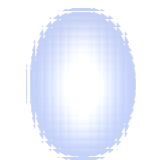
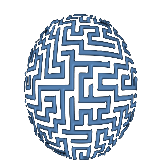
level5

diff --git a/game.py b/game.py
@@ -64,6 +64,8 @@ R_c = np.array([-1, 0, 0])
 Vg = np.array([1, -sqrt(2) / 2]) / sqrt(3 / 2)
 Vd = np.array([1, sqrt(2) / 2]) / sqrt(3 / 2)
 
+
+
 setting = {}
 setting['smooth'] = False
 destr = [0, 4, 6,11]
@@ -308,10 +310,10 @@ class Wall():
 
             if self.angle0>0:
 
-                self.a_middle[:,:,0]=self.a_old[:,:,0]+np.sin(self.angle0)*np.sin(angle1)*(5)
-                self.a_middle[:, :, 1] = self.a_old[:, :, 1] + np.sin(self.angle0) * np.cos(angle1) * (5)
-                self.X_middle[:,:,0]=self.X[:,:,0]-np.sin(self.angle0)*np.sin(angle1)*(5)
-                self.X_middle[:, :, 1] = self.X[:, :, 1] - np.sin(self.angle0) * np.cos(angle1) * (5)
+                self.a_middle[:,:,0]=self.a_old[:,:,0]+np.sin(self.angle0)*np.sin(angle1)*(2.5)
+                self.a_middle[:, :, 1] = self.a_old[:, :, 1] + np.sin(self.angle0) * np.cos(angle1) * (2.5)
+                self.X_middle[:,:,0]=self.X[:,:,0]-np.sin(self.angle0)*np.sin(angle1)*(2.5)
+                self.X_middle[:, :, 1] = self.X[:, :, 1] - np.sin(self.angle0) * np.cos(angle1) * (2.5)
 
         self.Ub = np.empty_like(depth[:,:,0]).astype(bool)
 
@@ -363,10 +365,10 @@ class Wall():
         global moving_cam
         if len(self.wall_im)>1 or len(self.wall_im2)>1:
             moving_cam=True
-        N = np.stack((self.a_middle[0][0], self.b_middle[0][0], -self.n), axis=-1)
-        V = np.maximum(np.minimum(np.linalg.solve(N, -self.X_middle[0][0] + R_c)[:-1], 1), 0)
+        N = np.stack((self.a_old[0][0], self.b_old[0][0], -self.n), axis=-1)
+        V = np.maximum(np.minimum(np.linalg.solve(N, -self.X_old[0][0] + R_c)[:-1], 1), 0)
         self.norm = np.linalg.norm(
-            self.X_middle[0][0][:-1] + V[0] * self.a_middle[0][0][:-1] + V[1] * self.b_middle[0][0][:-1] - R_c[:-1]) - min(self.window,
+            self.X_old[0][0][:-1] + V[0] * self.a_old[0][0][:-1] + V[1] * self.b_old[0][0][:-1] - R_c[:-1]) - min(self.window,
                                                                                                       1) * 0.001
         self.norm3 = np.linalg.norm(self.X_middle[0][0] + V[0] * self.a_middle[0][0] + V[1] * self.b_middle[0][0] - R_c)
         self.inter=V
@@ -437,6 +439,7 @@ class Wall():
 
                 milliseconds.append(time.perf_counter()*1000)
                 i.time_behind = milliseconds[1] - milliseconds[0]
+
                 return True
             else:
 
@@ -453,6 +456,7 @@ class Wall():
 
 
                 if self.angle0<0:
+
                     angle1=pi-np.arctan2(self.b_old[:,0,1],self.b_old[:,0,0])
                     X0[:, 0] = self.X_old[:, 0, 0] - np.sin(self.angle0) * np.sin(angle1) *self.a_old[:, 0, 2]
                     X0[:, 1] = self.X_old[:, 0, 1] - np.sin(self.angle0) * np.cos(angle1) * self.a_old[:, 0, 2]
@@ -462,9 +466,21 @@ class Wall():
                     self.U1 = np.where(
                         np.all(self.S1 <= horizon, axis=-1) & np.all(self.S1 > 0, axis=-1) & np.all(self.S1[:, :-1] < 1, axis=-1), 1, 0)
 
+                if self.angle0>0:
+
+                    self.U1=self.U0.copy()
+                    X0[:, 0] = self.X[:, 0, 0]
+                    X0[:, 1] = self.X[:, 0, 1]
+                    self.M0 = np.stack((B0, -screen[:, 24, 3:-1] @ Rp), axis=-1)  # -------------- PB à résoudre pièce haute
+                    self.A0 = -X0 + (screen[:, 24, :2] - x) @ Rp + x
+                    self.S1 = (np.linalg.solve(self.M0, self.A0))
+                    self.U0 = np.where(
+                        np.all(self.S1 <= horizon, axis=-1) & np.all(self.S1 > 0, axis=-1) & np.all(self.S1[:, :-1] < 1, axis=-1), 1, 0)
+
 
                 if self.window == 0:
-                    if self.angle0<0:
+                    if self.angle0!=0:
+
                         horizon = self.S1[:, -1:] * np.expand_dims(self.U1, -1) + horizon * (
                                     1 - np.expand_dims(self.U1, -1))
                     else:
@@ -481,6 +497,7 @@ class Wall():
                     return False
 
         else:
+
             milliseconds.append(time.perf_counter()*1000)
             i.time_behind = milliseconds[1] - milliseconds[0]
             return False
@@ -894,7 +911,10 @@ class Thing():
         self.vis = np.where(np.sum(self.im, axis=-1) != 0, 1, 0)
         if self.type_M == 6 and self.shield == 0:
             im=MD[self.type_M][c // 3][self.angle].copy()
-            im.blit(shield,(0,0))
+            if c%2:
+                im.blit(shield,(0,0))
+            else:
+                im.blit(shield2, (0, 0))
             self.im = np.minimum(pygame.surfarray.pixels3d(im), 255)
             self.vis = np.where(np.sum(self.im, axis=-1) != 0, 1, 0)
 
@@ -1386,7 +1406,14 @@ class boule(pygame.sprite.Sprite):
     def affiche(self):
         if self.f0[0] > 0 and abs(self.f0[1] / self.f0[0]) < TAN2 + 0.5 and self.D <= \
                 depth[int(self.X * scrnL[0]) % (2 * scrnL[0])][int(self.Y * scrnL[1] % (2 * scrnL[1]))]:
-            self.imA = pygame.transform.scale(self.im, (
+
+            colorT = light_array[int(self.p[0] + 101) // 2][int(self.p[1] + 101) // 2]
+            colorT = light_modif(colorT, level, c3)
+
+            self.imb=self.im.copy()
+            self.imb.fill(255*colorT, special_flags=BLEND_RGB_MULT)
+
+            self.imA = pygame.transform.scale(self.imb, (
             min(int(Ratio*300 / self.f0[0]), window[1] // 1), min(int(Ratio*300 / self.f0[0]), window[1] // 1)))
 
 
@@ -2496,6 +2523,7 @@ BLOOD = pygame.transform.scale(pygame.image.load('image/effects/blood.png'), win
 code01 = pygame.image.load('image/Interface/code.png')
 code02 = pygame.image.load('image/Interface/code2.png')
 shield=pygame.image.load('image/effects/shield.png').convert_alpha()
+shield2=pygame.image.load('image/effects/shield2.png').convert_alpha()
 ttt = []
 bleed = 0
 explo = 0
@@ -2892,22 +2920,28 @@ while running == 1:
         moving_cam=True
 
     time_in_behind=0.
+    add_h=[]
+
     if moving_cam == True:
 
         Sky_view = 0
         IS = []
         empty_pixel_count=128000
-        for i in wall[0:wall_count]:
+        for ci,i in enumerate(wall[0:wall_count]):
             devant = True
             if i not in h_wall:
                 devant = i.test_behind()
+
                 time_in_behind+=i.time_behind
                 if i.window > 0 and devant:
                     CLOSED = 1
                     if i.sky>0:
                         Sky_view = 1
             else:
+
                 if i.norm > 6 and i.text[11:-3] not in liquid_floor:
+                    if len(add_h)<2:
+                        add_h.append(i)
                     devant = False
                     if CLOSED != 0:  # and h_wall.index(i)<=6: # INSTEAD CHECK IF ASSOCIATED DOOR WITH THIS FLOOR IS OPEN AND VISIBLE---COMPLICATED
                         devant = True
@@ -2919,6 +2953,7 @@ while running == 1:
                     rend=i.render()
                     Im[i.Ub]=rend[i.Ub]
                     # Im = i.render() + Im * (1 - np.expand_dims(i.U, -1))
+
                     empty_pixel_count = np.sum((np.sum(Im[3:-3:3, 3:-3:3], axis=-1) == 0).astype(int))
 
                     if render_w==1 :#and c3==1:
@@ -2933,8 +2968,14 @@ while running == 1:
                     IS.append(i)
 
 
-                if empty_pixel_count < 8 or i.norm > 150:
-                    break
+            if empty_pixel_count < 8 or i.norm > 150 or ci==wall_count-1:
+                if empty_pixel_count>5:
+
+                    for j in add_h:
+                        rend = j.render()
+                        Im[j.Ub] = rend[j.Ub]
+                        render_w+=1
+                break
         if render_w2>wall_count-10:
             elastic_count+=10
         else: